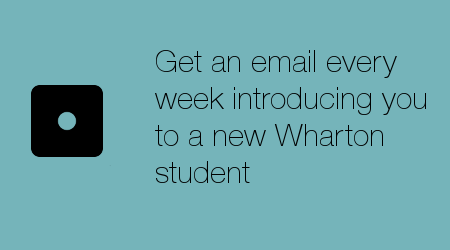
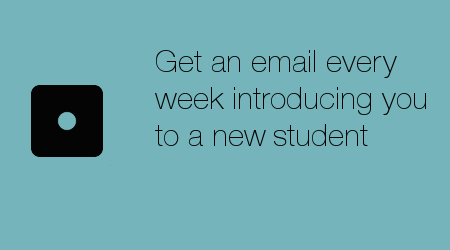
changed text

Changed region(s): [[0.5911, 0.504, 0.84, 0.588], [0.3422, 0.644, 0.56, 0.728]]

diff --git a/index.html b/index.html
@@ -274,7 +274,7 @@ section {
             <div class="row">
                 <div class="col-sm-12">
                      <h1 class="" style="text-align: center;"><a href="#" title="Wharton Roulette" class=""><img src="roulette.png" class="change"></a>
-          <p class="lead" style="font-size: 30px;">Meet your school.</p></h1>
+          <p class="lead" style="font-size: 30px;">Meet interesting people.</p></h1>
 
                 </div>
             </div>
@@ -321,17 +321,16 @@ section {
     <div class="divider" id="section1"></div>
     <div class="container">
         <div class="col-sm-10 col-sm-offset-1">
-          <p class="lead text-center"><h1 style="text-align:center">When you applied for Wharton, you beat out thousands for 1 of 500 coveted spots.<br/><br/></h1></p>
-          <p class="lead text-center">Admissions curated us: the mountain climbers, the kids who knew they were destined for banking from the age of 4, the go-getters, the dreamers, the card counters, the entrepreneurs, the salesmen, the activists.</p>
+          <p class="lead text-center"><h1 style="text-align:center">A curated exchange of the most interesting people you'll find at Penn.<br/><br/></h1></p>
+          <p class="lead text-center"><h2 style="text-align:center">Wharton Roulette is an invite-only community of go-getters, entrepreneurs, activists.</h2></p>
         <div class="page-header text-center">
-          <h1 class="">People would kill to be part of the elite group you are part of.<br/>If you had the chance to, why wouldn't you want to meet every single Whartonite before you graduated?</h1>
+          <h1 class=""></h1>
         </div>
-        <p class="lead text-center">Meet your school before graduation. Let Wharton Roulette pair you up with a random Wharton peer every week.</p>
     </div></div>
     <div class="divider" id="section2"></div>
     <section class="bg-1">
-        <div class="col-sm-6 col-sm-offset-3 text-center">
-             <h2 style="padding:10px;margin-top:-10px;background-color:rgba(5,5,5,.8)" class="">Wharton has <span style="font-size:50px">2,502</span> undergrads. <br/>You'd have to meet <span style="font-size:50px">19</span> new people a week to meet everyone by your graduation day.<br/>Start with <span style="font-size:50px">1</span> a week.</h2>
+        <div class="col-sm-8 col-sm-offset-2 text-center">
+             <h2 style="padding:20px;margin-top:-10px;background-color:rgba(5,5,5,.8)" class="">Through Wharton Roulette, you get paired weekly with a random Rouletter for a one-on-one meeting as well as invitations to larger group get togethers.</h2>
 
         </div>
     </section>
@@ -373,7 +372,7 @@ section {
                         <img src="three.png" class="img-responsive">
                     </div>
                     <div class="panel-body">
-                        <p class="lead">Wait for Roulette to introduce you to a new Wharton student next week. It's that easy.</br>
+                        <p class="lead">Wait for Roulette to introduce you to a new Rouletter next week. It's that easy.</br>
                         </p>
                     </div>
                 </div>
@@ -391,7 +390,7 @@ section {
     <div class="divider"></div>
     <section class="bg-3" id="section4">
         <div class="col-sm-6 col-sm-offset-3 text-center">
-             <h2 style="padding:20px;background-color:rgba(5,5,5,.8)" class="">Meet your school before you graduate.</h2>
+             <h2 style="padding:20px;background-color:rgba(5,5,5,.8)" class="">Meet interesting people before you graduate.</h2>
 
         </div>
     </section>
@@ -400,7 +399,7 @@ section {
             <div class="row">
                 <div class="col-sm-12">
                      <h1 class="" style="text-align: center;"><a href="#" title="Wharton Roulette" class=""><img src="roulette.png" class="change"></a>
-          <p class="lead" style="font-size: 30px;">Piloting April 13th, 2014 with the first 150 sign-ups.</p></h1>
+          <p class="lead" style="font-size: 30px;">Piloting Fall 2014.</p></h1>
             </div>
                 <div class="divider"></div>
         </div>
@@ -427,7 +426,7 @@ style="display:none;" onload="if(submitted) {window.document.getElementById('sig
 <span class="ss-required-asterisk"></span></div></label>
             <div class="row form-group">
                 <div class="col-sm-12">
-<input type="text" name="entry.746105330" placeholder="Email (Wharton email required)" value="" class="form-control" id="entry_746105330" dir="auto" aria-label="You must have a Wharton email" aria-required="true" required="" pattern=".*@wharton.*" title="You must have a Wharton email">
+<input type="text" name="entry.746105330" placeholder="Email (UPenn email required)" value="" class="form-control" id="entry_746105330" dir="auto" aria-label="You must have a Wharton email" aria-required="true" required="" pattern=".*upenn.edu.*" title="You must have a UPenn email">
 </div>
 </div>
 
@@ -449,17 +448,30 @@ style="display:none;" onload="if(submitted) {window.document.getElementById('sig
 <div class="ss-q-help ss-secondary-text" dir="ltr"></div></label>
  <div class="row form-group">
   <div class="col-sm-12">
-<ul class="ss-choices" style= " list-style-type: none;" role="radiogroup" aria-label="Year  "><li class="ss-choice-item"><label><span class="ss-choice-item-control goog-inline-block"><input type="radio" name="entry.2114387535" value="2014" id="group_2114387535_1" role="radio" class="ss-q-radio" aria-label="2014" required="" aria-required="true"></span>
-<span class="ss-choice-label">2014</span>
-</label></li> <li class="ss-choice-item"><label><span class="ss-choice-item-control goog-inline-block"><input type="radio" name="entry.2114387535" value="2015" id="group_2114387535_2" role="radio" class="ss-q-radio" aria-label="2015" required="" aria-required="true"></span>
+<ul class="ss-choices" style= " list-style-type: none;" role="radiogroup" aria-label="Year  "><li class="ss-choice-item"><label><span class="ss-choice-item-control goog-inline-block"><input type="radio" name="entry.2114387535" value="2015" id="group_2114387535_1" role="radio" class="ss-q-radio" aria-label="2014" required="" aria-required="true"></span>
 <span class="ss-choice-label">2015</span>
-</label></li> <li class="ss-choice-item"><label><span class="ss-choice-item-control goog-inline-block"><input type="radio" name="entry.2114387535" value="2016" id="group_2114387535_3" role="radio" class="ss-q-radio" aria-label="2016" required="" aria-required="true"></span>
+</label></li> <li class="ss-choice-item"><label><span class="ss-choice-item-control goog-inline-block"><input type="radio" name="entry.2114387535" value="2016" id="group_2114387535_2" role="radio" class="ss-q-radio" aria-label="2016" required="" aria-required="true"></span>
 <span class="ss-choice-label">2016</span>
-</label></li> <li class="ss-choice-item"><label><span class="ss-choice-item-control goog-inline-block"><input type="radio" name="entry.2114387535" value="2017" id="group_2114387535_4" role="radio" class="ss-q-radio" aria-label="2017" required="" aria-required="true"></span>
-<span class="ss-choice-label">2017</span></div></div>
+</label></li> <li class="ss-choice-item"><label><span class="ss-choice-item-control goog-inline-block"><input type="radio" name="entry.2114387535" value="2017" id="group_2114387535_3" role="radio" class="ss-q-radio" aria-label="2017" required="" aria-required="true"></span>
+<span class="ss-choice-label">2017</span>
+</label></li> <li class="ss-choice-item"><label><span class="ss-choice-item-control goog-inline-block"><input type="radio" name="entry.2114387535" value="2018" id="group_2114387535_4" role="radio" class="ss-q-radio" aria-label="2018" required="" aria-required="true"></span>
+<span class="ss-choice-label">2018</span></div></div>
 </label></li></ul>
 <div class="error-message"></div>
+</div></div></div> <div class="ss-form-question errorbox-good" role="listitem">
+<div dir="ltr" class="ss-item ss-text"><div><label class="ss-q-item-label" for="entry_274737272"><div class="ss-q-title">
+  <label for="itemView.getDomIdToLabel()" aria-label="(Required field)"></label>
+<span class="ss-required-asterisk">*</span></div>
+<div class="ss-q-help ss-secondary-text" dir="ltr"></div></label>
+ <div class="row form-group">
+                <div class="col-sm-12">
+<input type="text" name="entry.274737272" placeholder="Referrer" value="" class="form-control" id="entry_274737272" dir="auto" aria-label="Referrer  " aria-required="false" title="">
+<div class="error-message"></div>
+</div>
+</div>
 </div></div></div>
+
+
 <input type="hidden" name="draftResponse" value="[,,&quot;6690713252634552570&quot;]
 ">
 <input type="hidden" name="pageHistory" value="0">
@@ -513,7 +525,7 @@ style="display:none;" onload="if(submitted) {window.document.getElementById('sig
 <!--/wrap-->
 <div id="footer" class="">
     <div class="container">
-        <p class="text-muted">Contact Nina Lu at nilu[at]wharton for more information. Dice images by Alex Fuller from <a href="http://nounproject.com">nounproject.com</a>.
+        <p class="text-muted">Contact us at whartonroulette[at]gmail.com for more information. Dice images by Alex Fuller from <a href="http://nounproject.com">nounproject.com</a>.
 
         </p>
     </div>
